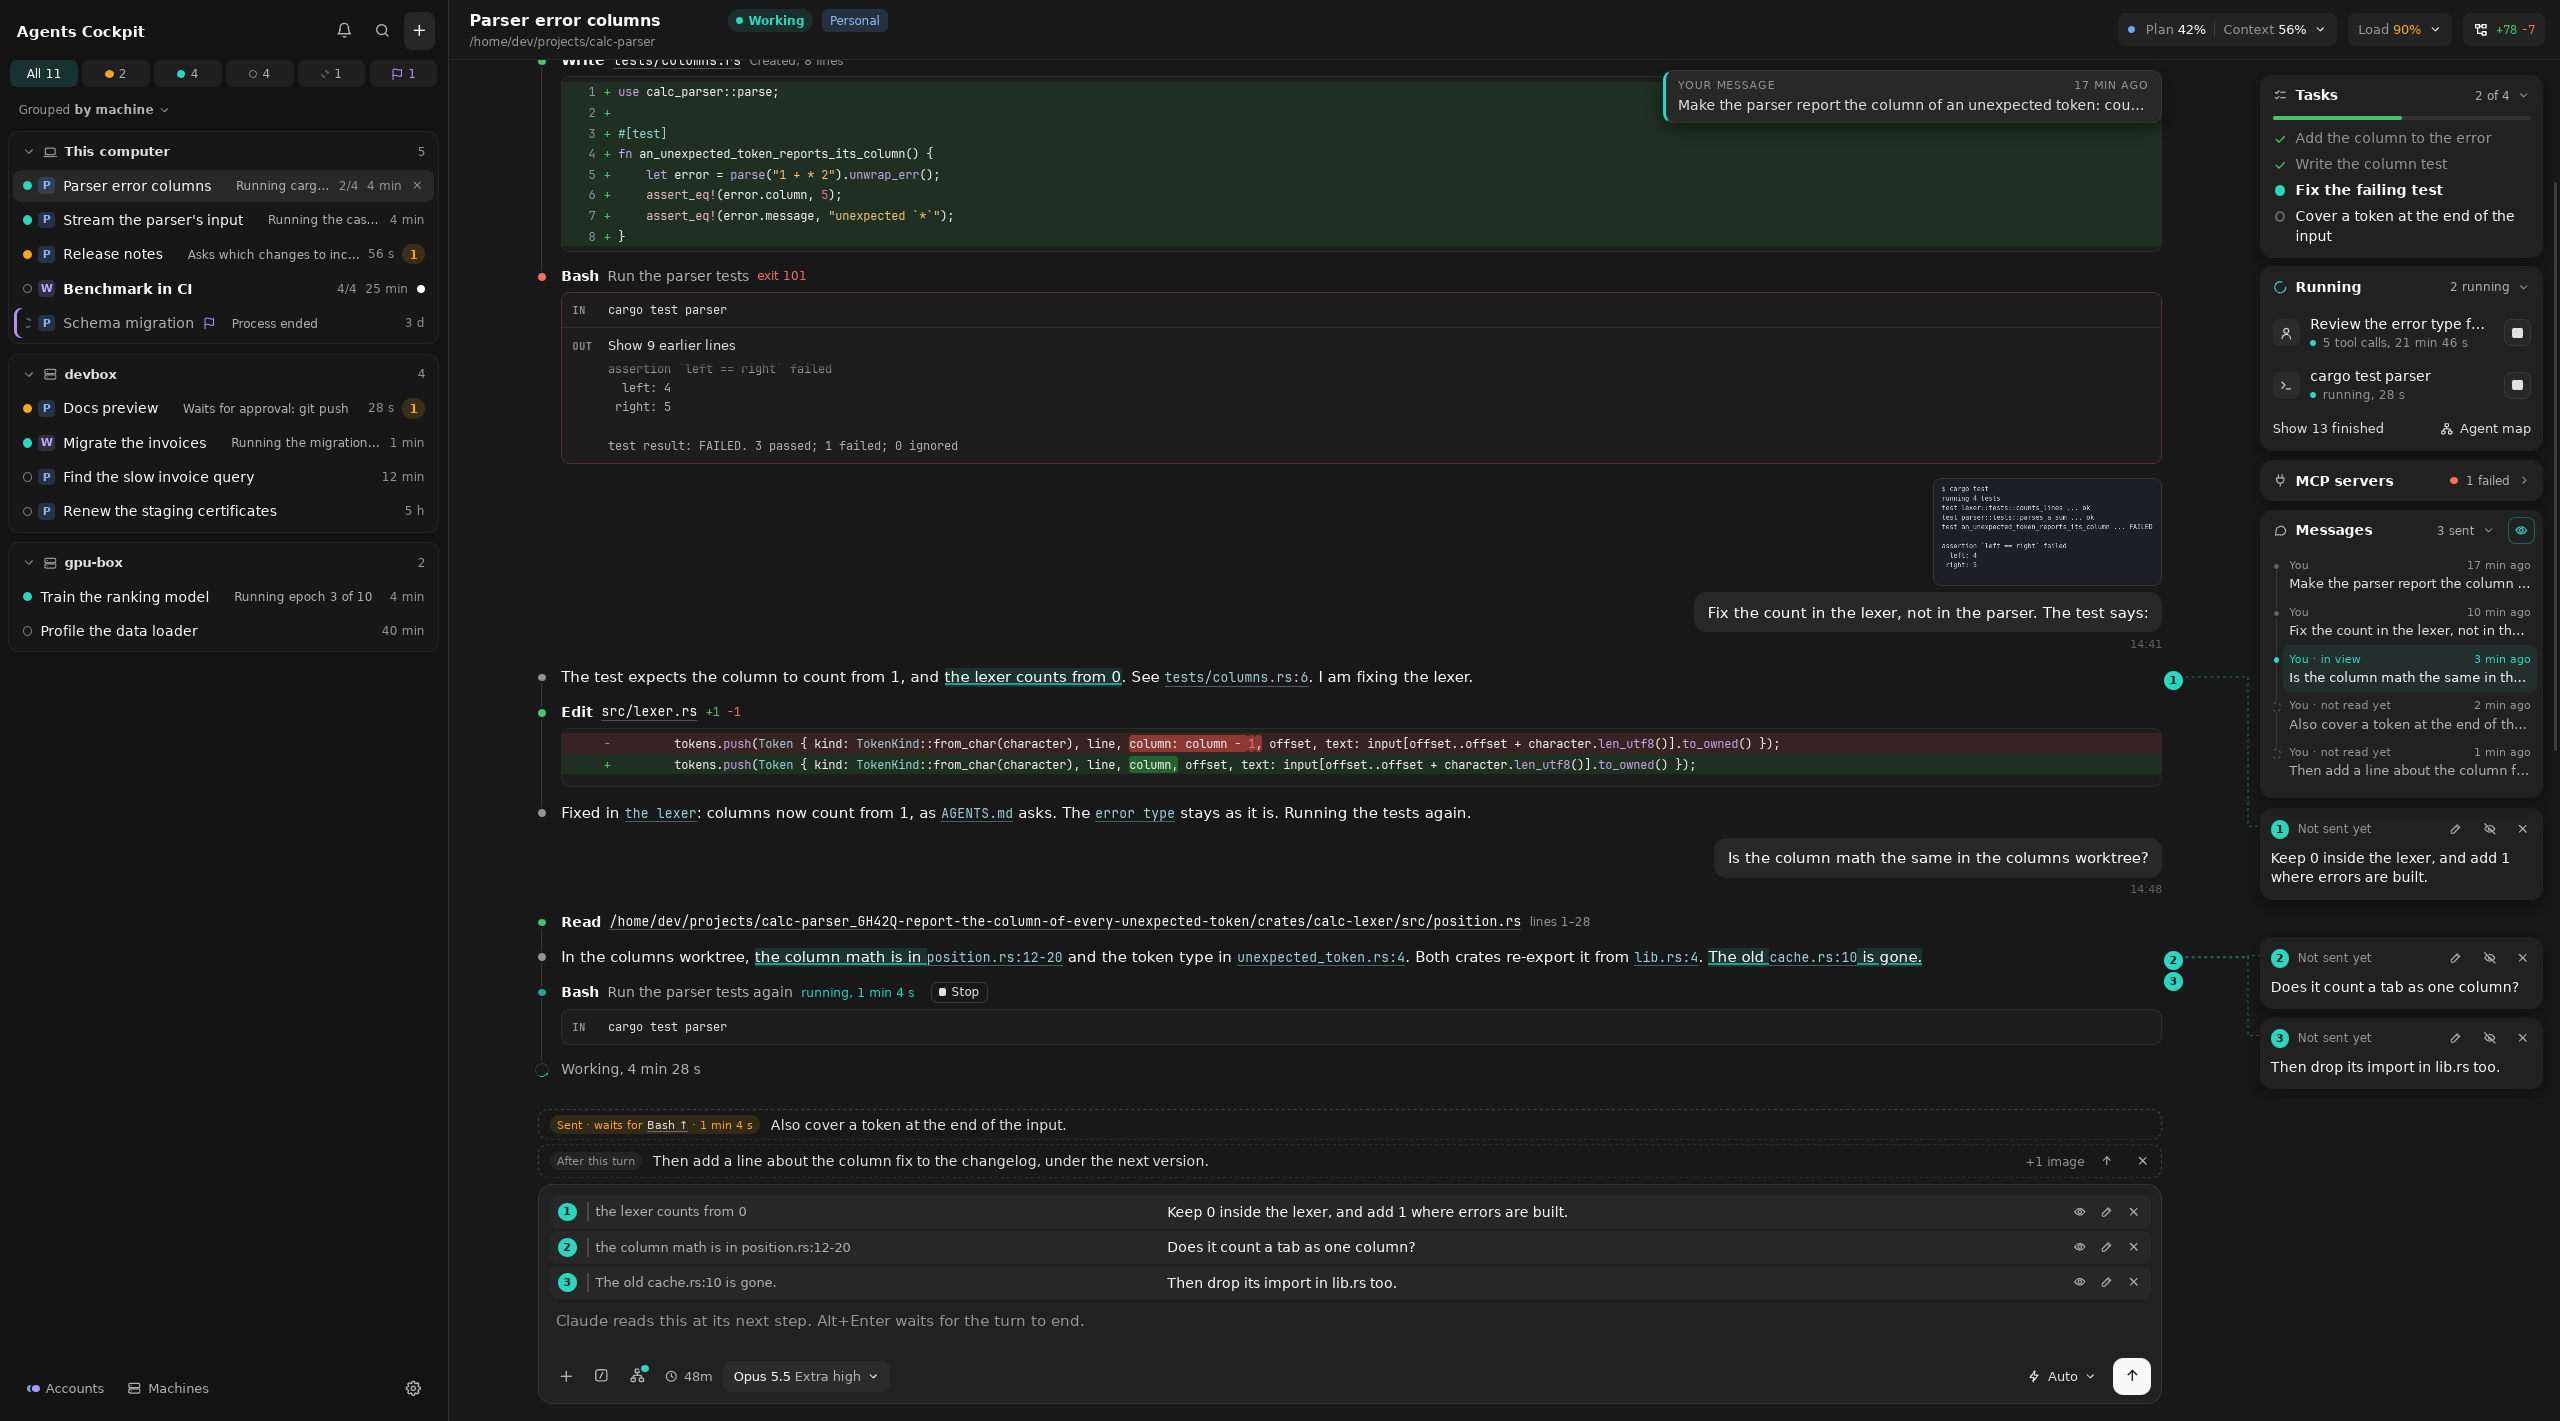
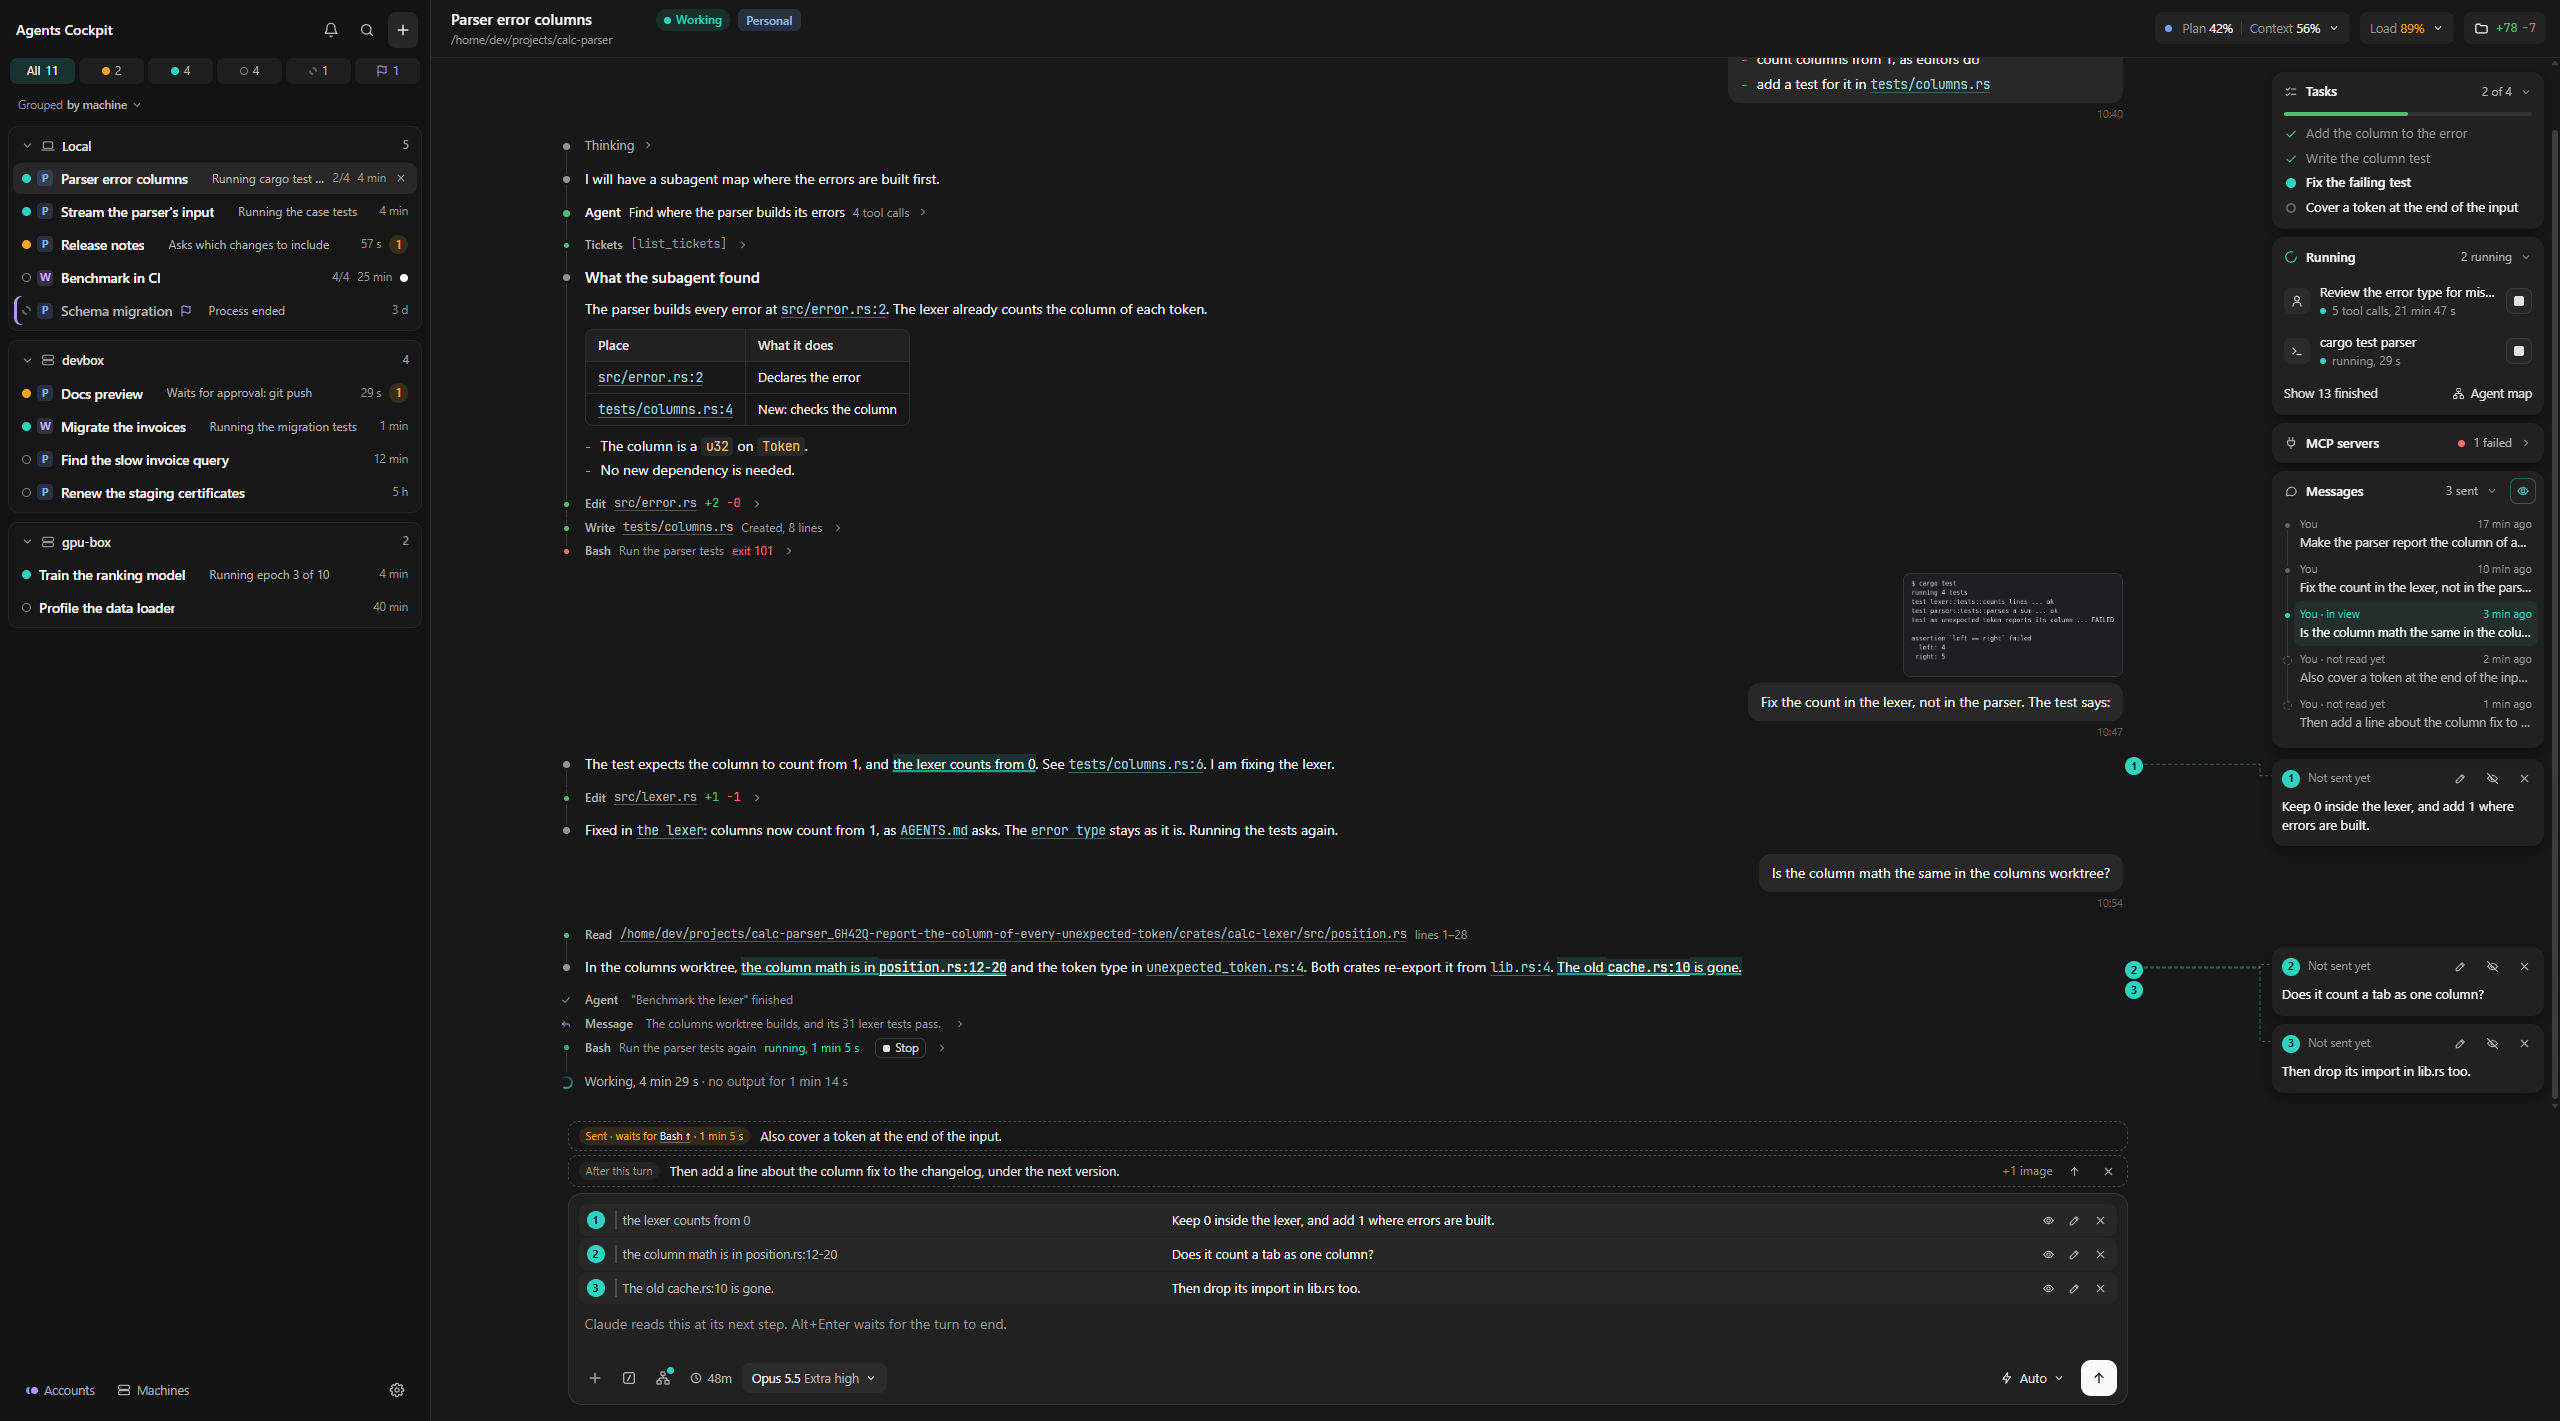
Retake the README's pictures from the current app
Taken on Windows over the DevTools protocol, at the scenes' size of 2560 by 1421. The projects picture now shows the machine's load.

diff --git a/README.md b/README.md
@@ -2,7 +2,7 @@
 
 Orchestrator to control multiple agents over multiple machines and accounts.
 
-| ![The app with agents on three machines: the sidebar lists the agents by machine, the middle shows one agent's conversation with a reply under way that quotes three passages, each with its comment beside the text, and the right column shows the agent's tasks, subagents and messages](docs/images/machines.png) | ![The app with the agents grouped by project: one agent asks three questions, the file view shows the changelog that the agent edited, and the files pane lists the agent's folder](docs/images/projects.png) |
+| ![The app with agents on three machines: the sidebar lists the agents by machine, the middle shows one agent's conversation with a reply under way that quotes three passages, each with its comment beside the text, and the right column shows the agent's tasks, subagents and messages](docs/images/machines.png) | ![The app with the agents grouped by project: one agent asks three questions, the machine's load is open under the header with each agent's cores and memory, the file view shows the changelog that the agent edited, and the files pane lists the agent's folder](docs/images/projects.png) |
 | --- | --- |
 
 Main features are:
